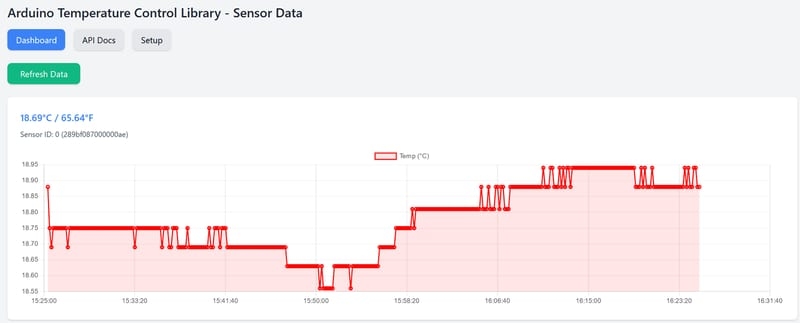
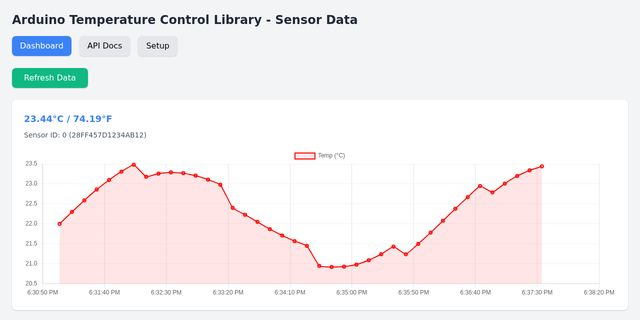
feat(home): automate all screenshots, render thumbnail cards, add Recently Active, stamp real build time
- Arduino dashboard captured from the repo's sketch with mocked sensors
- Projects thumbnails rendered with Playwright instead of the 429-prone OpenGraph service
- Recently Active section from live GitHub data
- footer shows the real build time on deploy

diff --git a/src/lib/featured.ts b/src/lib/featured.ts
@@ -12,7 +12,7 @@ export interface FeaturedProject {
 	liveHref?: string;
 	image: string;
 	imageAlt: string;
-	screenshot: { url: string; waitMs?: number; clickText?: string } | null;
+	screenshot: { url?: string; sketchUrl?: string; waitMs?: number; clickText?: string } | null;
 }
 
 export interface FeaturedTile extends FeaturedProject {
@@ -56,4 +56,24 @@ export async function loadFeaturedTiles(): Promise<FeaturedTile[]> {
 			imageSrc: projectImageFor(project.image),
 		};
 	});
+}
+
+export interface RecentRepo {
+	name: string;
+	href: string;
+	description: string;
+	language: string | null;
+	pushedAt: string;
+}
+
+// The most recently pushed public repos that aren't already featured, so the
+// homepage keeps showing what is actually being worked on without hand edits.
+export async function loadRecentRepos(limit = 4): Promise<RecentRepo[]> {
+	const repos = await fetchOwnedRepos('milesburton');
+	const featuredNames = new Set(featuredProjects.map((p) => p.repo));
+	return repos
+		.filter((r) => !featuredNames.has(r.name) && !r.name.endsWith('.github.io') && r.description)
+		.sort((a, b) => new Date(b.pushed_at).valueOf() - new Date(a.pushed_at).valueOf())
+		.slice(0, limit)
+		.map((r) => ({ name: r.name, href: r.html_url, description: r.description ?? '', language: r.language, pushedAt: r.pushed_at }));
 }

diff --git a/e2e/alignment.spec.ts b/e2e/alignment.spec.ts
@@ -73,3 +73,14 @@ test('homepage: featured images never render as broken alt text', async ({ page 
 	);
 	expect(broken, 'no featured <img> may be broken').toEqual([]);
 });
+
+test('homepage: recently active cards share a row and size', async ({ page }) => {
+	await page.setViewportSize({ width: 1280, height: 900 });
+	await page.goto('/', { waitUntil: 'networkidle' });
+	const cards = page.locator('.recent-card');
+	expect(await cards.count()).toBeGreaterThanOrEqual(2);
+	const first = await cards.nth(0).boundingBox();
+	const second = await cards.nth(1).boundingBox();
+	expect(Math.abs((first?.y ?? 0) - (second?.y ?? 99))).toBeLessThanOrEqual(2);
+	expect(Math.abs((first?.height ?? 0) - (second?.height ?? 99))).toBeLessThanOrEqual(2);
+});
